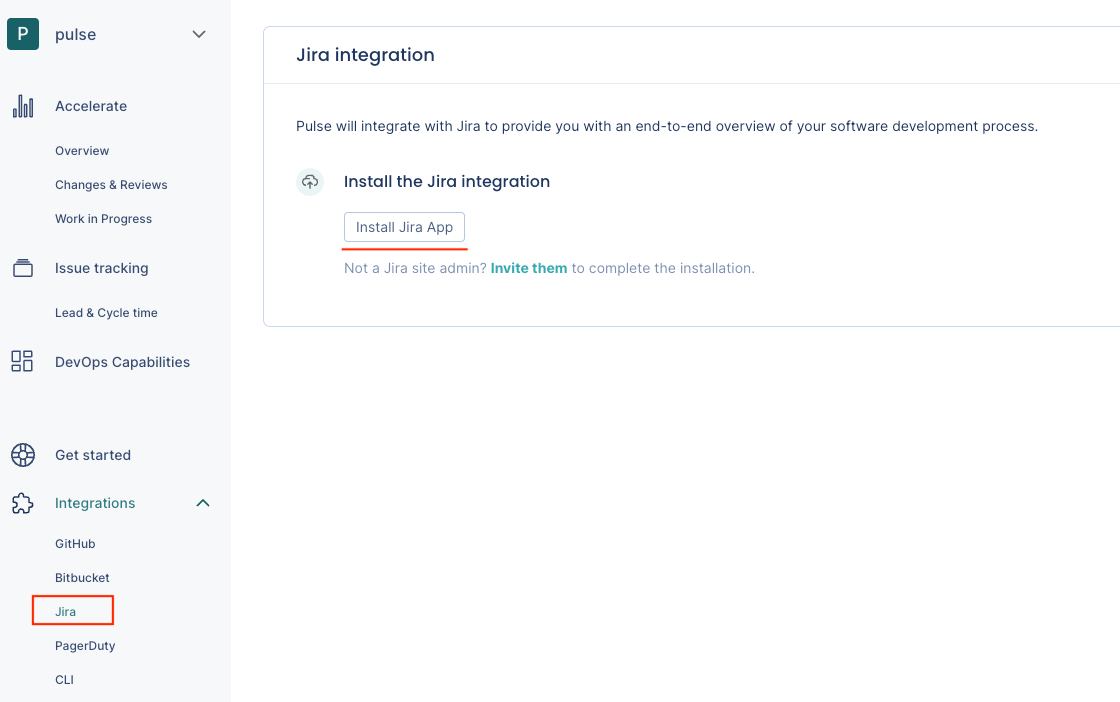
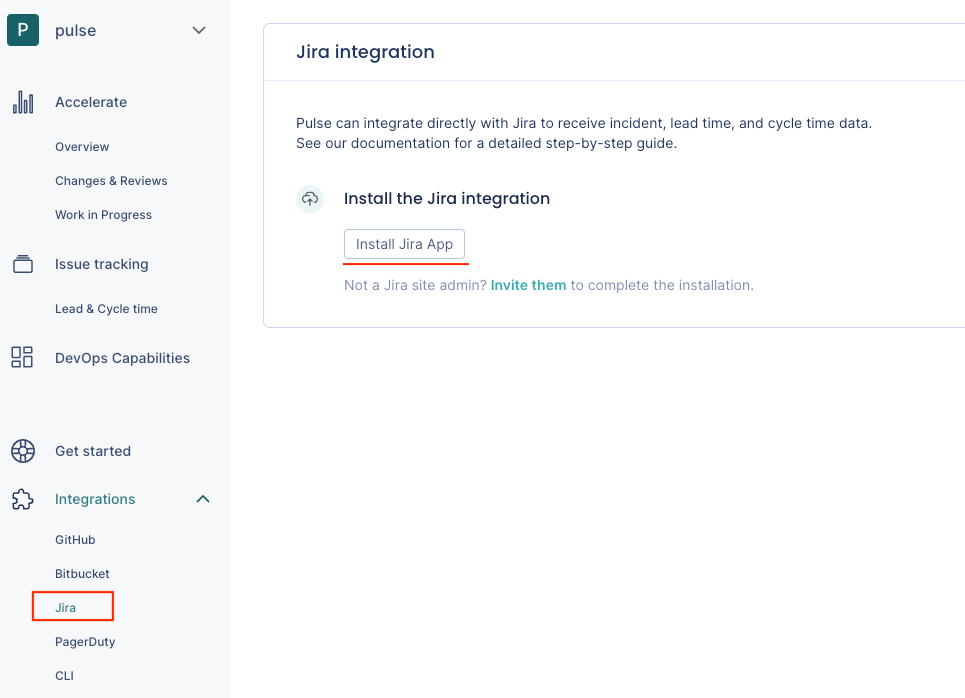
feat: Incident detection via Jira PUL-1811 (#205)
* feat: Initial updates for incident detection via Jira

* feat: Add incident detection details. Update collected data. Tweaks.

* feat: Add permissions information. Tweaks.

* toolchain: Add Atlassian to vale accepted words

* clean: Format one-click integrations info in a table for clarity

* fix: Fix links in html table. Tweaks.

* feat: Update screenshots of the setup flow

* feat: Add requirements to detect incidents correctly during historical data loading

* Update docs/one-click-integrations/jira-integration.md

* feat: Add screenshot for successful setup

* Update docs/one-click-integrations/jira-integration.md

* Update docs/one-click-integrations/jira-integration.md

* Update docs/one-click-integrations/jira-integration.md

* Update docs/one-click-integrations/jira-integration.md

* Update docs/one-click-integrations/jira-integration.md

* Update docs/one-click-integrations/jira-integration.md

* style: Fix formatting

* clean: Update screenshot for successful setup

---------

diff --git a/docs/one-click-integrations/jira-integration.md b/docs/one-click-integrations/jira-integration.md
@@ -1,29 +1,94 @@
 # Jira integration
 
-Pulse integrates with Jira Cloud to receive data about issues, necessary to calculate the metrics [Lead time and Cycle time](../metrics/lead-cycle-time.md).
+Pulse integrates with Jira Cloud to receive data about:
+
+-   **Issues** - necessary to calculate [Lead time and Cycle time](../metrics/lead-cycle-time.md).
+
+-   **Incidents** - necessary to calculate the following Accelerate metrics:
+
+    -   [Time to recover](../metrics/accelerate.md#time-to-recover)
+
+    -   [Change failure rate](../metrics/accelerate.md#change-failure-rate)
 
 ## Setting up the Jira integration
+
+!!! note
+    -   A **Jira administrator** must set up the integration, as Pulse will only have access to Jira resources that the user setting up the integration has access to.
+    -   You can only integrate one Pulse organization with each Jira instance.
+    -   If you want to report incidents using Jira, [review the details of the incident detection strategy](#incident-detection-strategy) before you proceed with the integration setup.
+    -   [See below](#jira-permissions) the permissions that Pulse requires from your Jira instance.
 
 To set up the Jira integration:
 
 1.  On Pulse, [expand **Integrations** and select **Jira**](https://app.pulse.codacy.com/integrations/jira){: target="_blank"}.
 
-1.  Click **Install Jira** and follow the instructions on the Jira UI to install the app.
-
-    !!! important
-        This step should be performed by a Jira administrator, since Pulse will only have access to Jira resources that the user setting up the integration has access to.
-
-        You can only integrate one Pulse organization with each Jira instance.
+1.  Click **Install Jira App** and follow the instructions on the Jira UI to install the app. You must be a Jira administrator to proceed with this step.
 
     ![Installing the Pulse Jira app](images/jira-installing.png)
 
-1.  Wait until you get a confirmation that Pulse successfully created the integration and the necessary webhooks on Jira.
+1.  Confirm that Pulse successfully connected the integration to Jira. If there is an error please [contact support](mailto:pulsesupport@codacy.com).
 
-    If there was an error please [contact support](mailto:pulsesupport@codacy.com).
+    ![Pulse Jira App installed successfully](images/jira-installed-ok.png)
+
+1.  Choose the strategy to detect incidents that best fits your workflows. See the [section below](#incident-detection-strategy) for a detailed description of each option.
+
+    ![Configuring the incident detection strategy](images/jira-incident-strategy.png)
+
+1.  Click **Complete setup**.
+
+Your Jira integration is now complete. Pulse will start loading your data for the last 90 days.
+
+![Pulse Jira integration set up successfully](images/jira-ok.png)
+
+## Automatic incident detection strategies {: id="incident-detection-strategy"}
+
+The Pulse Jira integration can detect **incidents** automatically using the [issues assigned with the label `Incident`](#jira-incident-label).
+
+You can also choose [not to detect incidents via Jira](#jira-incident-not-detect).
+
+### Use issues assigned with the label "Incident" {: id="jira-incident-label"}
+
+-   Pulse considers an incident every Jira issue in a **Done** status assigned with the label `Incident` (case-insensitive). **Done** status in Jira are all the status of an issue under the [Done category](https://support.atlassian.com/jira-work-management/docs/workflows-and-statuses-for-the-board/) (represented by the green color in Jira). Some examples are **DONE**, **CLOSED**, or **DECLINED**, but other values can be defined.
+
+-   Pulse associates an incident to one or more systems matching the values in the **Component(s)** field of the Jira issue (case-sensitive).
+
+    -   If the Jira issue is set with more than one component, Pulse creates an incident for each existing system that matches a component name, ignoring the remaining components that don't exist in Pulse as a system.
+
+    -   If the **Component(s)** field in the Jira issue is empty, or none of the components exist in Pulse as a system, Pulse creates an incident and associates it with the system `_unknown_`.
+
+-   The incident creation date is the timestamp when the Jira issue was created, while the incident resolution date is the timestamp when the Jira issue was last updated to a **Done** status.
+
+-   Pulse creates new incidents when the following updates are performed in Jira:
+
+    -   The status of an issue assigned with the label `Incident` is updated to a **Done** status. Pulse creates one or more incidents, depending on the values in the **Component(s)** field.
+
+    -   An issue in a **Done** status is assigned with the label `Incident`. Pulse creates one or more incidents, depending on the values in the **Component(s)** field.
+
+    -   A new component that matches an existing system is added to an issue in a **Done** status assigned with the label `Incident`. Pulse creates a new incident associated with the matching system.
+
+-   Pulse deletes an existing incident when the following updates are performed in Jira:
+
+    -   The corresponding issue is re-opened.
+
+    -   The label `Incident` is removed from the corresponding issue.
+
+    -   A component that matches an existing system is removed from the corresponding issue. Pulse deletes the incident for that system.
+
+    -   The corresponding issue is deleted.
+
+!!! important
+    After completing the Jira integration setup, Pulse starts loading your incident data for the last 90 days. Therefore, **before you perform the integration setup**, make sure the corresponding Jira issues follow the rules described above, so Pulse can load your historical data correctly.
+    Pulse will only create incidents for the Jira issues in a **Done** status that are assigned with the label `Incident`, and associates them with the systems matching the values in the **Component(s)** field as described above.
+
+### Don't detect incidents via Jira {: id="jira-incident-not-detect"}
+
+-   Pulse doesn't detect incidents automatically using Jira events.
+
+    Choose this option if you want to send to Pulse the information about your **incidents** using another Pulse integration - [GitHub one-click integration](github-integration.md) or [Bitbucket one-click integration](bitbucket-integration.md), [PagerDuty one-click integration](pagerduty-integration.md), [Pulse CLI](../cli/cli.md), or [Ingestion API](https://ingestion.pulse.codacy.com/v1/api-docs) - or if you don't want Pulse to track incidents data.
 
 ## Collected data
 
-The table below lists the data that the Jira integration collects from your Jira issues, together with the metrics that Pulse calculates from the data to display on the dashboards.
+The table below lists the data that the Jira integration collects from your Jira instance and the metrics that Pulse displays on the dashboards, calculated using the collected data.
 
 <table>
 <thead>
@@ -39,7 +104,7 @@ The table below lists the data that the Jira integration collects from your Jira
         <td>
             Issue data includes all issue status transitions.
         </td>
-        <td>Lead time and Cycle time metrics on the <a href="../../metrics/lead-cycle-time/">Lead & Cycle time dashboard</a></td>
+        <td>Lead time and Cycle time on the <a href="../../metrics/lead-cycle-time/">Lead & Cycle time dashboard</a></td>
     </tr>
     <tr>
         <td>Projects</td>
@@ -56,8 +121,54 @@ The table below lists the data that the Jira integration collects from your Jira
         </td>
         <td>Filters on the <a href="../../metrics/lead-cycle-time/">Lead & Cycle time dashboard</a></td>
     </tr>
+    <tr>
+        <td>Issues</td>
+        <td>
+            Pulse detects <strong>incidents</strong> from issue data according to the <a href="#incident-detection-strategy">defined strategy</a>.
+        </td>
+        <td>Time to recover and Change failure rate on the <a href="../../metrics/accelerate/">Accelerate Overview dashboard</a></td>
+    </tr>
+</table>
+
+## Which permissions does Pulse need from Jira? {: id="jira-permissions"}
+
+Pulse requests only the necessary [permissions/scopes from your Atlassian account](https://developer.atlassian.com/cloud/jira/platform/scopes-for-oauth-2-3LO-and-forge-apps/) to collect issues data from your Jira instance and [keeps your information secure](https://security.codacy.com/). See below the detailed list of permissions.
+
+<table>
+  <colgroup>
+    <col width="25%"/>
+    <col width="75%"/>
+  </colgroup>
+  <thead>
+    <tr>
+      <th>Classic scope</th>
+      <th>Description</th>
+    </tr>
+  </thead>
+  <tbody>
+    <tr>
+      <td><code>read:me</code></td>
+      <td>Pulse retrieves the email of the user installing the integration.</td>
+    </tr>
+    <tr>
+      <td><code>read:jira-work</code></td>
+      <td>Pulse requires this scope to perform the following actions:
+      <ul>
+        <li>List all issue statuses associated with the active workflows to identify the transitions of the issue status, required to detect when an issue is closed or re-opened.</li>
+        <li>Get the details of an issue for real-time processing.</li>
+        <li>List projects to use on dashboard filters.</li>
+        <li>List the closed issues of a project for historical data loading.</li>
+      </ul>
+    </tr>
+    <tr>
+      <td><code>manage:jira-webhook</code></td>
+      <td>Pulse uses Jira webhooks to retrieve data in real time. </td>
+    </tr>
+  </tbody>
 </table>
 
 ## See also
 
 -   [Lead and Cycle time metrics](../metrics/lead-cycle-time.md)
+-   [Time to recover](../metrics/accelerate.md#time-to-recover)
+-   [Change failure rate](../metrics/accelerate.md#change-failure-rate)

diff --git a/docs/index.md b/docs/index.md
@@ -39,11 +39,47 @@ Pulse provides push-based integrations with your workflow using the following al
 
 -   **One-click integrations**
 
-    Pulse currently supports the following "one-click" integrations that simplify the process of setting up your workflows to send data to Pulse:
+    Pulse currently supports the "one-click" integrations listed in the table below that simplify the process of setting up your workflows to send data to Pulse.
 
-    -   **[GitHub integration](one-click-integrations/github-integration.md) or [Bitbucket integration](one-click-integrations/bitbucket-integration.md):** reports changes, deployments, and incidents
-    -   **[PagerDuty integration](one-click-integrations/pagerduty-integration.md):** reports incidents
-    -   **[Jira integration](one-click-integrations/jira-integration.md):** reports lead and cycle time
+    <table>
+        <colgroup>
+            <col width="30%"/>
+            <col width="10%"/>
+            <col width="60%"/>
+        </colgroup>
+        <thead>
+            <tr>
+                <th>Use this one-click integration...</th>
+                <th>to report...</th>
+                <th>necessary to calculate...</th>
+            </tr>
+        </thead>
+        <tbody>
+            <tr>
+                <td rowspan="2"><a href="one-click-integrations/github-integration">GitHub integration</a> or <a href="one-click-integrations/bitbucket-integration">Bitbucket integration</a></td>
+                <td>changes and deployments</td>
+                <td>the Accelerate metrics <a href="metrics/accelerate#deployment-frequency">deployment frequency</a> and <a href="metrics/accelerate#lead-time-for-changes">lead time for changes</a>, including the drill-down metrics <a href="metrics/accelerate-changes">changes and reviews</a>, and <a href="metrics/accelerate-wip">work in progress</a></td>
+            </tr>
+            <tr>
+                <td>incidents</td>
+                <td>the Accelerate metrics <a href="metrics/accelerate#time-to-recover">time to recover</a> and <a href="metrics/accelerate#change-failure-rate">change failure rate</a></td>
+            </tr>
+            <tr>
+                <td rowspan="2"><a href="one-click-integrations/jira-integration">Jira integration</a></td>
+                <td>issues</td>
+                <td><a href="metrics/lead-cycle-time">lead and cycle time</a> metrics</td>
+            </tr>
+            <tr>
+                <td>incidents</td>
+                <td>the Accelerate metrics <a href="metrics/accelerate#time-to-recover">time to recover</a> and <a href="metrics/accelerate#change-failure-rate">change failure rate</a></td>
+            </tr>
+            <tr>
+                <td><a href="one-click-integrations/pagerduty-integration">PagerDuty integration</a></td>
+                <td>incidents</td>
+                <td>the Accelerate metrics <a href="metrics/accelerate#time-to-recover">time to recover</a> and <a href="metrics/accelerate#change-failure-rate">change failure rate</a></td>
+            </tr>
+        </tbody>
+    </table>
 
     !!! note
         We recommend that whenever possible you use the integrations that match your stack because they're faster to set up. We plan to continue developing integrations for the most popular Git providers, CI/CD platforms, and incident management tools.

diff --git a/docs/one-click-integrations/bitbucket-integration.md b/docs/one-click-integrations/bitbucket-integration.md
@@ -93,7 +93,7 @@ You can also choose [not to detect incidents via Bitbucket](#bb-incident-not-det
 
 -   Pulse doesn't detect incidents automatically using Bitbucket events.
 
-    Choose this option if you want to send to Pulse the information about your **incidents** using another Pulse integration - [PagerDuty one-click integration](pagerduty-integration.md), [Pulse CLI](../cli/cli.md), or [Ingestion API](https://ingestion.pulse.codacy.com/v1/api-docs) - or if you don't want Pulse to track incidents data.
+    Choose this option if you want to send to Pulse the information about your **incidents** using another Pulse integration - [Jira one-click integration](jira-integration.md), [PagerDuty one-click integration](pagerduty-integration.md), [Pulse CLI](../cli/cli.md), or [Ingestion API](https://ingestion.pulse.codacy.com/v1/api-docs) - or if you don't want Pulse to track incidents data.
 
 ## Collected data
 

diff --git a/docs/one-click-integrations/github-integration.md b/docs/one-click-integrations/github-integration.md
@@ -135,7 +135,7 @@ You can also choose [not to detect incidents via GitHub](#gh-incident-not-detect
 
 -   Pulse doesn't detect incidents automatically using GitHub events.
 
-    Choose this option if you want to send to Pulse the information about your **incidents** using another Pulse integration - [PagerDuty one-click integration](pagerduty-integration.md), [Pulse CLI](../cli/cli.md), or [Ingestion API](https://ingestion.pulse.codacy.com/v1/api-docs) - or if you don't want Pulse to track incidents data.
+    Choose this option if you want to send to Pulse the information about your **incidents** using another Pulse integration - [Jira one-click integration](jira-integration.md), [PagerDuty one-click integration](pagerduty-integration.md), [Pulse CLI](../cli/cli.md), or [Ingestion API](https://ingestion.pulse.codacy.com/v1/api-docs) - or if you don't want Pulse to track incidents data.
 
 ## Collected data
 

diff --git a/docs/metrics/accelerate.md b/docs/metrics/accelerate.md
@@ -117,5 +117,5 @@ Pulse determines your performance level for this metric as follows:
 Report data to Pulse using the following integrations:
 
 -   [GitHub integration](../one-click-integrations/github-integration.md) or [Bitbucket integration](../one-click-integrations/bitbucket-integration.md)
--   [PagerDuty integration](../one-click-integrations/pagerduty-integration.md)
+-   [Jira integration](../one-click-integrations/jira-integration.md) or [PagerDuty integration](../one-click-integrations/pagerduty-integration.md)
 -   [Pulse CLI](../cli/cli.md)
